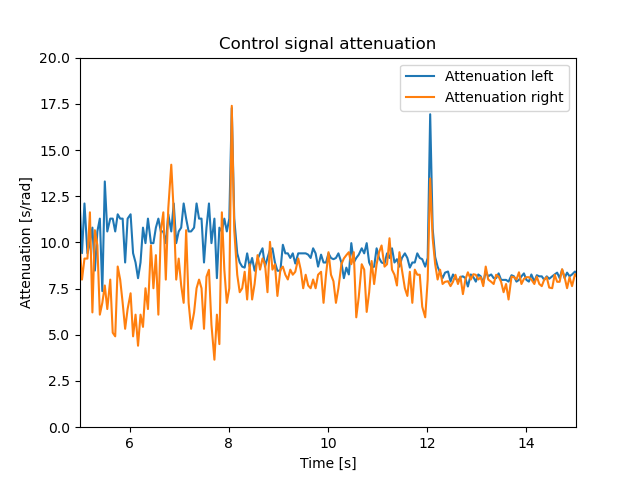
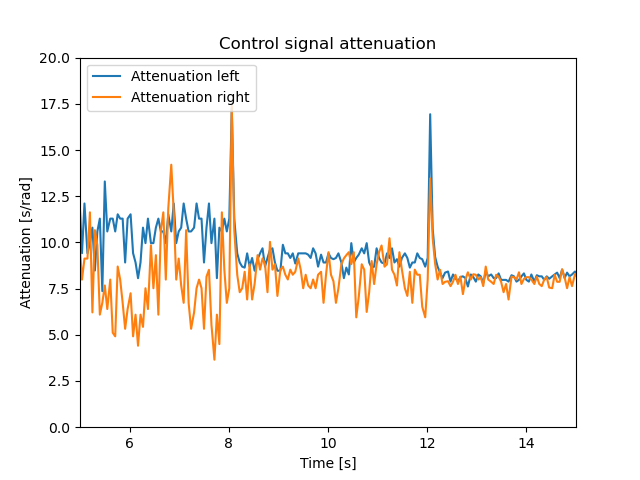
tuning plot title typos

Changed region(s): [[0.125, 0.125, 0.4062, 0.25], [0.6875, 0.125, 0.9062, 0.2188], [0.625, 0.1562, 0.6562, 0.2188]]

diff --git a/results/controller_testing/arduino_speed_control_tuning/data_analysis/24-11-11_PI-tuning-plots.py b/results/controller_testing/arduino_speed_control_tuning/data_analysis/24-11-11_PI-tuning-plots.py
@@ -4,7 +4,7 @@ import matplotlib.pyplot as plt
 ##################################################################
 #                            phase 1                             #
 ##################################################################
-'''
+
 phase1_df = pd.read_csv('24-11-11_PI-tune_PHASE-1_I0_P-varied.csv',
                         header=1,
                         sep=',')
@@ -29,7 +29,7 @@ plt.ylim([0,30])
 plt.xlabel('Time [s]')
 plt.ylabel('Motor Speed [rad/s]')
 plt.title('Phase 1: Proportional Tuning')
-plt.legend()
+plt.legend(loc='upper left')
 plt.show()
 
 
@@ -55,6 +55,7 @@ plt.show()
 ####################
 
 fig, axs = plt.subplots(2,2,figsize=(9,7))
+fig.suptitle("Phase 1: Proportional Tuning")
 
 axs[0,0].plot(time,omega_des,label='Setpoint')
 axs[0,0].plot(time,kp_4,label='KP=4')
@@ -97,6 +98,7 @@ plt.show()
 ####################
 
 fig, axs = plt.subplots(2,2,figsize=(9,7))
+fig.suptitle("Phase 1: Proportional Tuning")
 
 axs[0,0].plot(time,omega_des,label='Setpoint')
 axs[0,0].plot(time,kp_6,label='KP=6')
@@ -218,6 +220,7 @@ plt.show()
 ######################
 
 fig, axs = plt.subplots(2,2,figsize=(9,7))
+fig.suptitle("Phase 2: Integral Tuning, KP=8")
 
 axs[0,0].plot(time,omega_des,label='Setpoint')
 ki = 'KI=0.01'
@@ -261,6 +264,7 @@ plt.show()
 ######################
 
 fig, axs = plt.subplots(2,2,figsize=(9,7))
+fig.suptitle("Phase 2: Integral Tuning, KP=8")
 
 axs[0,0].plot(time,omega_des,label='Setpoint')
 ki = 'KI=0.06'
@@ -304,6 +308,7 @@ plt.show()
 ######################
 
 fig, axs = plt.subplots(2,2,figsize=(9,7))
+fig.suptitle("Phase 2: Integral Tuning, KP=8")
 
 axs[0,0].plot(time,omega_des,label='Setpoint')
 ki = 'KI=0.07'
@@ -346,7 +351,7 @@ axs[1,1].set_xlabel('Time [s]')
 axs[1,1].legend(loc="upper left")
 
 plt.show()
-'''
+
 
 ##################################################################
 #                            phase 3                             #
@@ -397,6 +402,7 @@ plt.show()
 ######################
 
 fig, axs = plt.subplots(1,2,figsize=(9,4))
+fig.suptitle("Phase 3: Integral Detuning, KI=0.08")
 
 axs[0].plot(time,omega_des,label='Setpoint')
 for gain in gains_subset:
@@ -424,6 +430,7 @@ plt.show()
 ######################
 
 fig, axs = plt.subplots(2,2,figsize=(9,7))
+fig.suptitle("Phase 3: Integral Detuning, KI=0.08")
 
 axs[0,0].plot(time,omega_des,label='Setpoint')
 KP = 'KP=0.5'

diff --git a/results/system_identification/24-11-22_sys_id_plotting.py b/results/system_identification/24-11-22_sys_id_plotting.py
@@ -26,7 +26,7 @@ plt.ylabel('Attenuation [s/rad]')
 plt.title('Control signal attenuation')
 plt.ylim([0,20])
 plt.xlim([5,15])
-plt.legend()
+plt.legend(loc='upper left')
 plt.show()
 
 ############
@@ -36,5 +36,5 @@ plt.show()
 plt.plot(time, sys_id_array[:,2],label='Response, Left')
 plt.plot(time, sys_id_array[:,3],label='Response, Right')
 plt.plot(time, sys_id_array[:,1],label='Command value')
-plt.legend()
+plt.legend(loc='upper left')
 plt.show()
